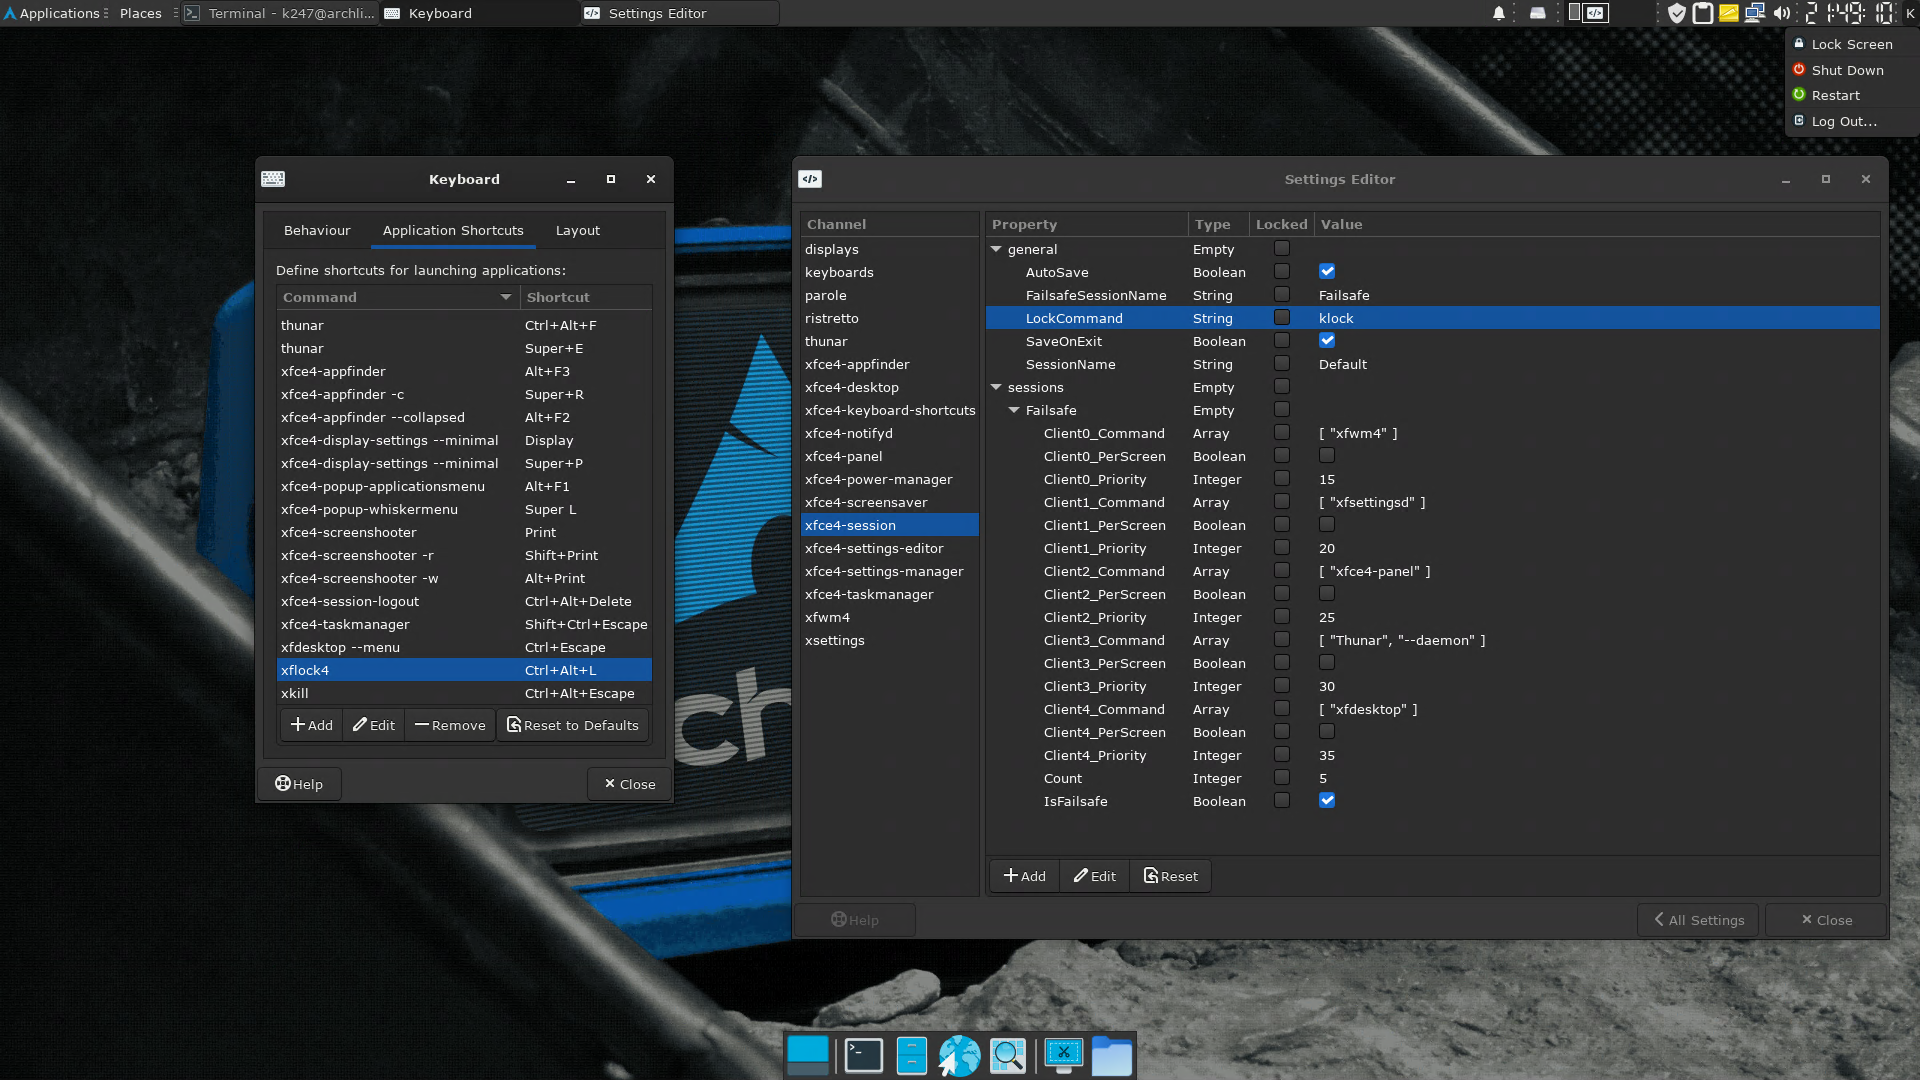
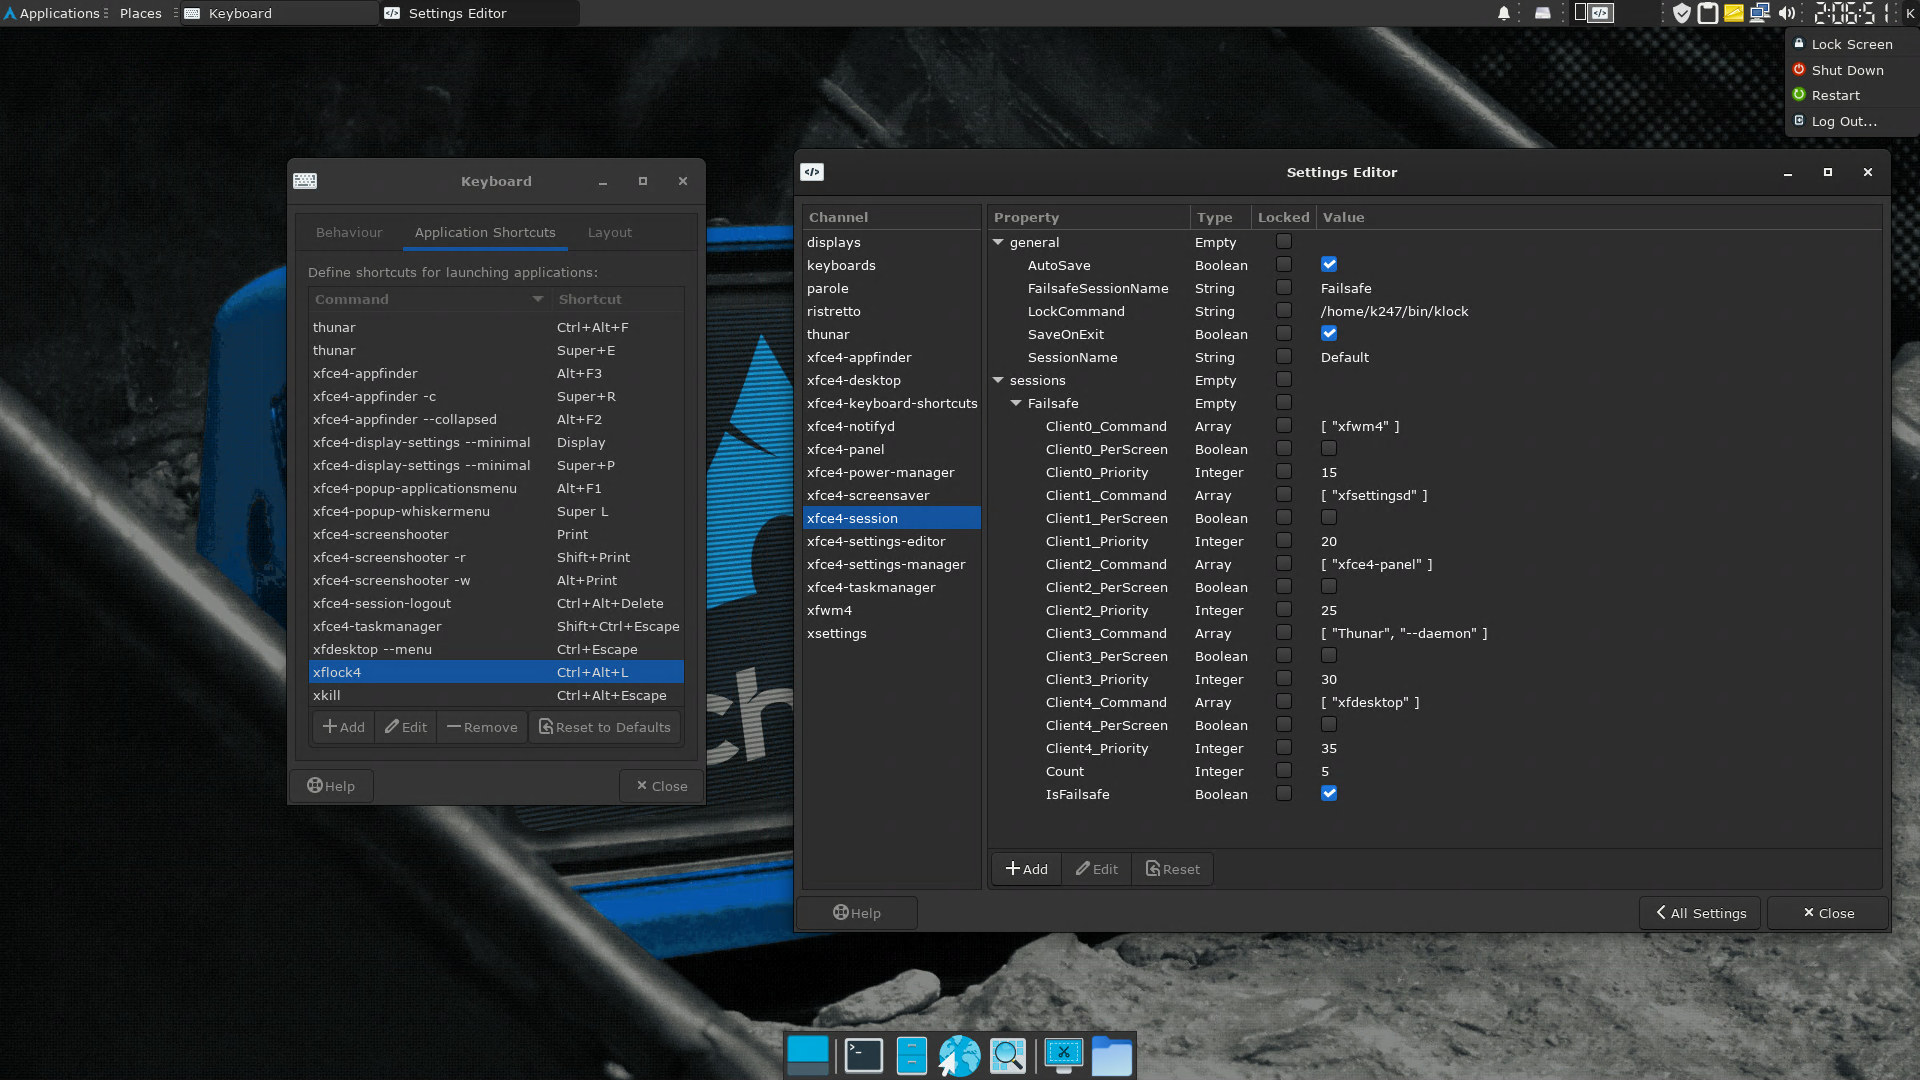
update doc

diff --git a/README.md b/README.md
@@ -1528,7 +1528,7 @@ $ sudo pacman -S imagemagick
 
 <p align="center"><img src="images/klock2.png" alt="klock xfce session lock" width="600" /></p>
 
-finally.. open `Settings Editor` from application menu, sellect `xfce-session` from channel & in the `LockCommand` string value.. enter `klock`.. now.. [Ctrl] + [Alt] + [L] will lock xfce-Desktop session as Keyboard Application Shortcuts for xflock4 is already set.. ;-]...
+finally.. open `Settings Editor` from application menu, sellect `xfce-session` from channel & in the `LockCommand` string value.. enter `/home/k247/bin/klock`.. now.. [Ctrl] + [Alt] + [L] will lock xfce-Desktop session as Keyboard Application Shortcuts for xflock4 is already set.. ;-]...
 
 <br>
 
